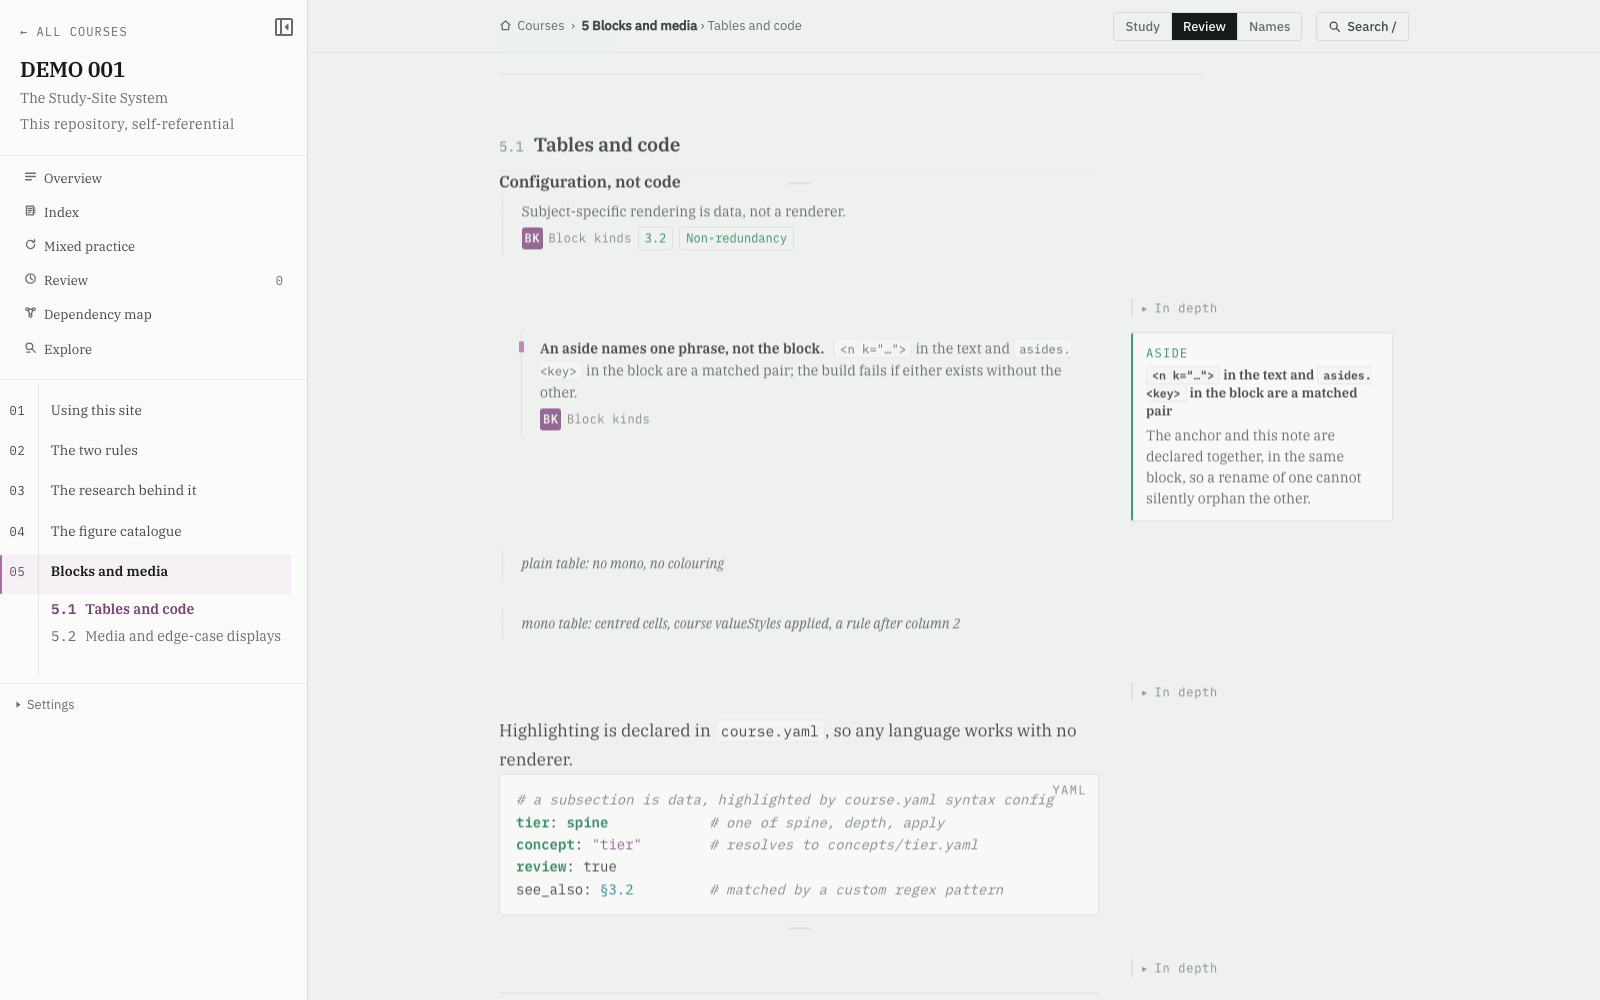
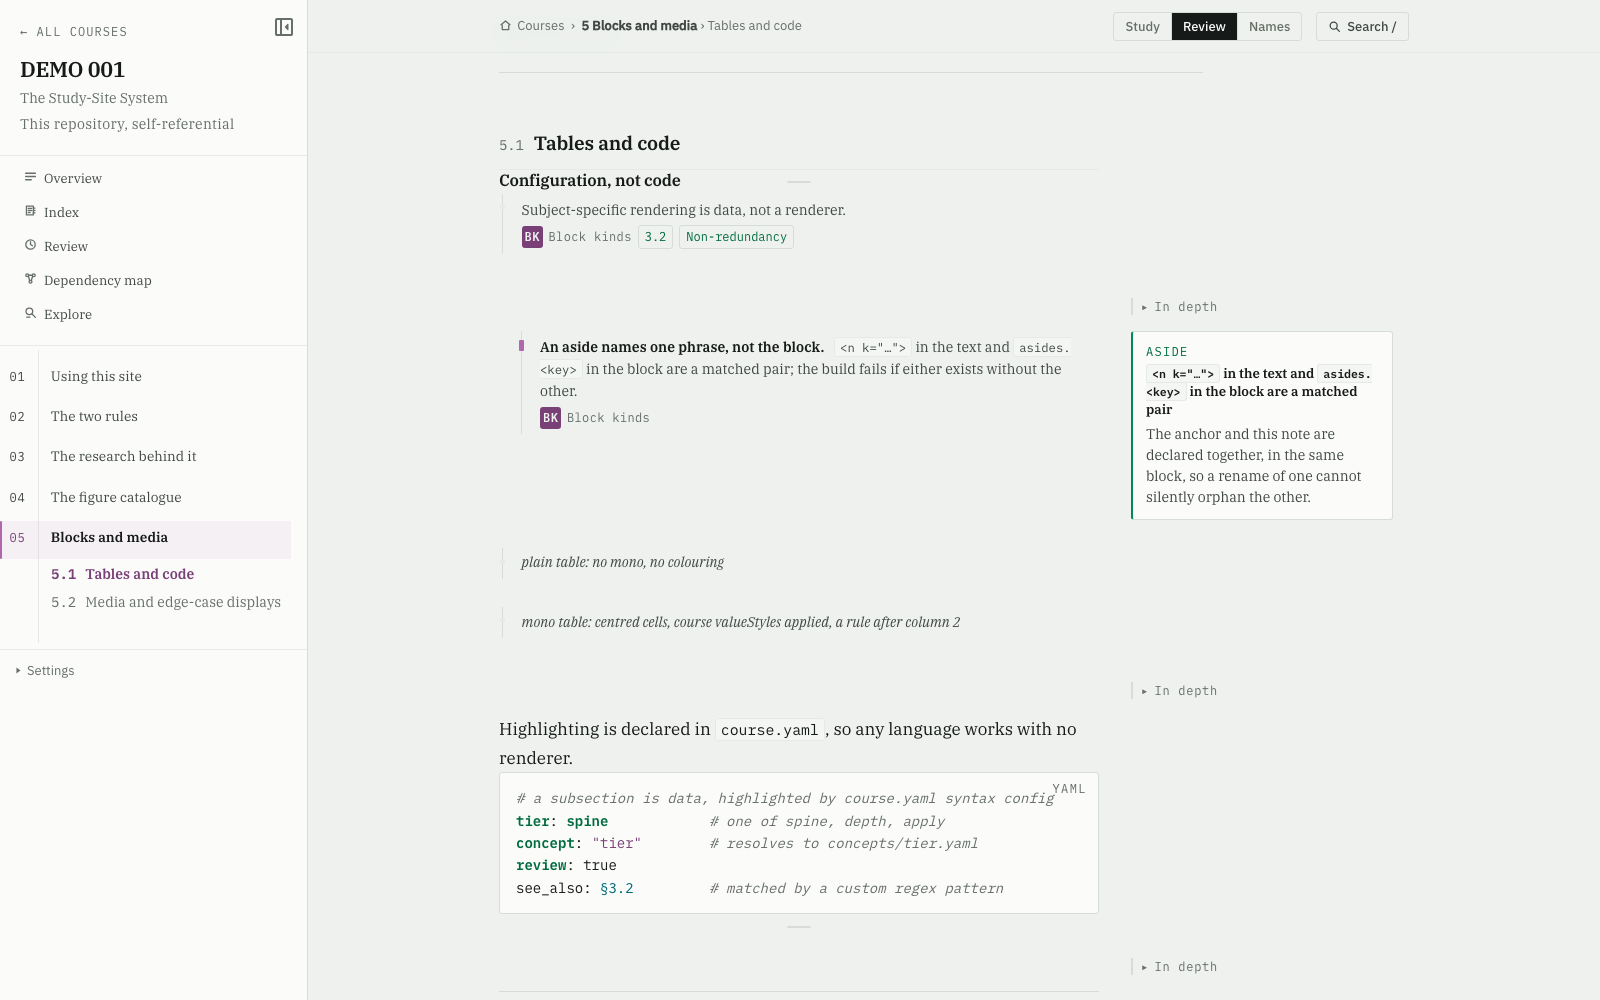
Mixed Questions and Review merge

diff --git a/src/app.jsx b/src/app.jsx
@@ -29,7 +29,6 @@ import { ConceptDetail } from "./components/Concepts.jsx";
 import { CatDetail } from "./components/Categories.jsx";
 import IndexPage from "./components/Index.jsx";
 import Explore from "./components/Explore.jsx";
-import Practice from "./components/Practice.jsx";
 import Primer from "./components/Primer.jsx";
 import DepMap from "./components/DepMap.jsx";
 import SearchOverlay from "./components/SearchOverlay.jsx";
@@ -428,8 +427,8 @@ export default function App() {
     ? "<b>Courses</b>"
     : !rest ? `<b>${course.code}</b>  ›  contents`
     : rest === "index" || rest === "concepts" || rest === "cat" ? "<b>Index</b>"
-    : rest === "review" ? "<b>Review</b>"
-    : rest === "practice" || rest.startsWith("practice/") ? "<b>Mixed practice</b>"
+    : rest === "review" || rest.startsWith("review/") ||
+      rest === "practice" || rest.startsWith("practice/") ? "<b>Review</b>"
     : rest === "explore" || rest.startsWith("explore/") ? "<b>Explore</b>"
     : rest.startsWith("cat/")
       ? `<b>Index</b>  ›  ${((course.cats || {})[rest.slice(4)] || {}).name || rest.slice(4)}`
@@ -453,7 +452,7 @@ export default function App() {
      is the library's frame, and the library is what a cross-course page
      belongs to. It used to draw a full-bleed frame of its own with a Close
      button; see components/Review.jsx. */
-  if (inReview) view = <Review />;
+  if (inReview) view = <Review mixed={rest === "mixed"} />;
   else if (!course) view = cid
     ? <Library courses={INDEX} order={ORDER} loading={!loadError} error={loadError}
                onChange={() => forceRender(n => n + 1)} />
@@ -464,9 +463,14 @@ export default function App() {
      still says, and a dead route is a worse answer than the page they meant. */
   else if (rest === "index" || rest === "concepts" || rest === "cat")
     view = <IndexPage ctx={ctx} />;
-  else if (rest === "practice") view = <Practice ctx={ctx} />;
-  else if (rest.startsWith("practice/"))
-    view = <Practice ctx={ctx} cat={rest.slice(9)} />;
+  /* The old practice routes still open the mixed option for existing links. */
+  else if (rest === "review" || rest === "review/mixed" ||
+           rest.startsWith("review/mixed/") || rest === "practice" ||
+           rest.startsWith("practice/"))
+    view = <Review only={cid} ctx={ctx}
+                   mixed={rest !== "review"}
+                   cat={rest.startsWith("review/mixed/") ? rest.slice(13)
+                      : rest.startsWith("practice/") ? rest.slice(9) : null} />;
   else if (rest.startsWith("cat/")) view = <CatDetail ctx={ctx} k={rest.slice(4)} />;
   else if (rest === "explore") view = <Explore ctx={ctx} seed={null} />;
   else if (rest === "explore/saved")
@@ -475,7 +479,6 @@ export default function App() {
     view = <Explore ctx={ctx} seed={{ tag: decodeURIComponent(rest.slice(12)) }} />;
   else if (rest.startsWith("explore/cat/"))
     view = <Explore ctx={ctx} seed={{ cat: decodeURIComponent(rest.slice(12)) }} />;
-  else if (rest === "review") view = <Review only={cid} />;
   else if (rest === "calibration") view = <Calibration ctx={ctx} onReset={onReset} />;
   else if (rest === "map" || rest.startsWith("map/"))
     view = <DepMap ctx={ctx} focus={rest.slice(4)}
@@ -539,7 +542,10 @@ export default function App() {
                   onMenu={() => setMenuOpen(v => !v)}
                   due={due} onReview={() => (location.hash = "#/review")} />
           <div class="wrap" id="content" ref={contentRef} onClick={onContentClick}>
-            <div class="viewport" key={hash}>{view}</div>
+            <div class="viewport" key={inReview || (course && (
+              rest === "review" || rest.startsWith("review/mixed") ||
+              rest === "practice" || rest.startsWith("practice/")))
+              ? `${cid}:review` : hash}>{view}</div>
           </div>
           {/* Outside `.wrap`, which carries the content zoom: the bar is chrome
               and magnifying the material should not magnify its controls. */}

diff --git a/src/components/Review.jsx b/src/components/Review.jsx
@@ -6,10 +6,45 @@ import { dueKeys } from "../lib/retention.js";
 import { buildQueue } from "../lib/queue.js";
 import { retryVariant } from "../lib/practice-pool.js";
 import QuestionCard from "./QuestionCard.jsx";
+import Practice from "./Practice.jsx";
 
 const SESSION = 20;
 
-export default function Review({ only = null }) {
+export default function Review({ only = null, ctx = null, mixed = false, cat = null }) {
+  const scope = only ? (INDEX[only] || {}).code || only
+    : mixed ? "choose a course" : "all courses";
+  const dueUrl = only ? `#/${only}/review` : "#/review";
+  const mixedUrl = only ? `#/${only}/review/mixed` : "#/review/mixed";
+  return <div class="review">
+    <header class="review-head">
+      <h1>Review</h1>
+      <span class="review-scope">{scope}</span>
+    </header>
+    <nav class="review-options" aria-label="Review options">
+      <a href={dueUrl} class={!mixed ? "cur" : ""}
+         aria-current={!mixed ? "page" : undefined}>Due now</a>
+      <a href={mixedUrl} class={mixed ? "cur" : ""}
+         aria-current={mixed ? "page" : undefined}>Mixed practice</a>
+    </nav>
+    <section hidden={mixed} aria-label="Due now">
+      <DueReview only={only} />
+    </section>
+    {ctx && <section hidden={!mixed} aria-label="Mixed practice">
+      <Practice key={cat || "all"} ctx={ctx} cat={cat} embedded />
+    </section>}
+    {!ctx && <section hidden={!mixed} aria-label="Choose a course for mixed practice"
+                     class="review-pick">
+      <p>{ORDER.length
+        ? "Choose a course to practise questions even when nothing is due."
+        : "Add a course to start mixed practice."}</p>
+      <div class="review-courses">{ORDER.map(cid => (
+        <a key={cid} href={`#/${cid}/review/mixed`}>{(INDEX[cid] || {}).code || cid} →</a>
+      ))}</div>
+    </section>}
+  </div>;
+}
+
+function DueReview({ only }) {
   const wanted = useMemo(() => ORDER.filter(cid => (!only || cid === only) &&
     dueKeys(cid).length > 0), [only]);
   const [books, setBooks] = useState(null);
@@ -32,15 +67,12 @@ export default function Review({ only = null }) {
 
   const again = () => setRun({ items: buildQueue(books || [], { limit: SESSION }), at: 0,
     retries: [], results: [] });
-  const scope = only ? (INDEX[only] || {}).code || only : "all courses";
-  if (!run) return <div class="review"><h1>Review</h1><p>Loading questions…</p></div>;
-  if (run.at >= run.items.length) return <div class="review">
-    <div class="review-bar"><span class="review-t">Review</span><span class="review-scope">{scope}</span></div>
-    <h1>{run.items.length ? "Session complete" : "Nothing is due"}</h1>
+  if (!run) return <p>Loading questions…</p>;
+  if (run.at >= run.items.length) return <div class="review-done">
+    <h2>{run.items.length ? "Session complete" : "Nothing is due"}</h2>
     <p>{run.items.length ? `${run.results.filter(r => r.correct).length} right; ${run.results.filter(r => !r.correct).length} to revisit.` :
       "You are caught up."}</p>
     {run.items.length > 0 && <button class="dbtn" onClick={again}>Another set</button>}
-    {only && <a class="dbtn" href={`#/${only}/practice`}>Mixed Practice →</a>}
   </div>;
 
   const row = run.items[run.at];
@@ -60,11 +92,11 @@ export default function Review({ only = null }) {
     return next;
   });
 
-  return <div class="review">
-    <div class="review-bar"><span class="review-t">Review</span><span class="review-scope">{scope}</span>
+  return <>
+    <div class="review-bar"><span class="review-t">Scheduled questions</span>
       <span class="review-n">{run.at + 1} of {run.items.length}</span></div>
     <QuestionCard key={`${run.at}:${row.item.id}`} item={row.item}
       ctx={{ ...book, state: book.state }} reason={row.reason}
       onResult={result} onContinue={() => setRun(prev => ({ ...prev, at: prev.at + 1 }))} />
-  </div>;
+  </>;
 }

diff --git a/src/components/Practice.jsx b/src/components/Practice.jsx
@@ -4,7 +4,7 @@ import { get as retentionGet } from "../lib/retention.js";
 import QuestionCard from "./QuestionCard.jsx";
 import { strip } from "../lib/util.js";
 
-export default function Practice({ ctx, cat }) {
+export default function Practice({ ctx, cat, embedded = false }) {
   const { cid, idx, state } = ctx;
   const subs = Object.entries(idx.SUBS);
   const [from, setFrom] = useState(subs[0]?.[0] || "");
@@ -32,25 +32,30 @@ export default function Practice({ ctx, cat }) {
     });
   };
 
-  return <div class="chub">
-    <h1>Mixed Practice</h1>
-    <div class="pgo"><button class="dbtn primary" id="p-start" onClick={start}
-      disabled={!pool.length}>Start {Math.min(Number(count), pool.length)} questions →</button></div>
-    <details class="pcfg">
-      <summary><i class="caret" aria-hidden="true" />Choose subsections and set length</summary>
-      <div class="pcfg-row">
-        <label>From <select id="p-from" value={from} onChange={e => setFrom(e.currentTarget.value)}>
-          {subs.map(([id, x]) => <option value={id} key={id}>{x.num} {strip(x.sub.title)}</option>)}
-        </select></label>
-        <label>Through <select id="p-to" value={to} onChange={e => setTo(e.currentTarget.value)}>
-          {subs.map(([id, x]) => <option value={id} key={id}>{x.num} {strip(x.sub.title)}</option>)}
-        </select></label>
-        <label>Questions <select id="p-count" value={count} onChange={e => setCount(e.currentTarget.value)}>
-          {[5, 10, 20, 40].map(n => <option value={n} key={n}>{n}</option>)}
-        </select></label>
-        <span class="pinfo">{pool.length} available</span>
-      </div>
-    </details>
+  return <div class={embedded ? "review-practice" : "chub"}>
+    {!embedded && <h1>Mixed Practice</h1>}
+    {!run && <>
+      <p class="practice-intro">{cat
+        ? `Practice ${idx.CAT.cats[cat]?.name || cat} across the selected subsections.`
+        : "Practice questions from this course, even when nothing is due."}</p>
+      <div class="pgo"><button class="dbtn primary" id="p-start" onClick={start}
+        disabled={!pool.length}>Start {Math.min(Number(count), pool.length)} questions →</button></div>
+      <details class="pcfg">
+        <summary><i class="caret" aria-hidden="true" />Choose subsections and set length</summary>
+        <div class="pcfg-row">
+          <label>From <select id="p-from" value={from} onChange={e => setFrom(e.currentTarget.value)}>
+            {subs.map(([id, x]) => <option value={id} key={id}>{x.num} {strip(x.sub.title)}</option>)}
+          </select></label>
+          <label>Through <select id="p-to" value={to} onChange={e => setTo(e.currentTarget.value)}>
+            {subs.map(([id, x]) => <option value={id} key={id}>{x.num} {strip(x.sub.title)}</option>)}
+          </select></label>
+          <label>Questions <select id="p-count" value={count} onChange={e => setCount(e.currentTarget.value)}>
+            {[5, 10, 20, 40].map(n => <option value={n} key={n}>{n}</option>)}
+          </select></label>
+          <span class="pinfo">{pool.length} available</span>
+        </div>
+      </details>
+    </>}
     {run && <div id="p-run">
       {run.at < run.items.length ? <>
         <div class="pbar"><i style={`width:${Math.round(run.at / run.items.length * 100)}%`} /></div>

diff --git a/src/components/Sidebar.jsx b/src/components/Sidebar.jsx
@@ -1,5 +1,5 @@
 import { useEffect, useRef } from "preact/hooks";
-import { IconStart, IconIndex, IconPractice, IconMap, IconTuck, IconExplore,
+import { IconStart, IconIndex, IconMap, IconTuck, IconExplore,
          IconReview } from "./Icon.jsx";
 import CourseActions from "./CourseActions.jsx";
 import LaneSelect from "./LaneSelect.jsx";
@@ -68,17 +68,11 @@ export default function Sidebar({ course, cid, rest, here, open, onNavigate, onT
   const top = [
     ["", "Overview", IconStart, !rest],
     ["index", "Index", IconIndex, ixHere],
-    ["practice", "Mixed practice", IconPractice, rest === "practice" || rest.startsWith("practice/")],
-    /* The queue was a chip in the toolbar. It is a place you go, which is what
-       every other row here is, and it sits beside mixed practice because the
-       two are the same act at two schedules. It carries a count, so the count
-       goes where a count goes in a table of contents: the far edge.
-
-       Scoped to this course, and so is the count. A rail belongs to one course
-       and a row in it that covered every other course was confusing; the
-       cross-course queue is on the dashboard. */
-    ...(due != null ? [["review", "Review", IconReview,
-                        rest === "review", due]] : []),
+    /* One destination for scheduled questions and mixed practice. The count
+       belongs only to scheduled questions from this course. */
+    ["review", "Review", IconReview,
+      rest === "review" || rest.startsWith("review/") ||
+      rest === "practice" || rest.startsWith("practice/"), due > 0 ? due : null],
     ["map", "Dependency map", IconMap, rest === "map" || rest.startsWith("map/")],
     ["explore", "Explore", IconExplore, rest === "explore" || rest.startsWith("explore/")]
   ];
@@ -101,12 +95,12 @@ export default function Sidebar({ course, cid, rest, here, open, onNavigate, onT
 
       <div class="navtop">
         {top.map(([route, label, Ico, cur, n]) => (
-          <a key={label} href={H(route)} class={(cur ? "cur" : "") + (n != null ? " rv-row" : "")}
-             id={n != null ? "rv-open" : undefined}
-             title={n != null ? "Review what is due  (r)" : undefined}
+          <a key={label} href={H(route)} class={(cur ? "cur" : "") + (route === "review" ? " rv-row" : "")}
+             id={route === "review" ? "rv-open" : undefined}
+             title={route === "review" ? "Review this course  (r)" : undefined}
              onClick={onNavigate}>
             <span class="k"><Ico /></span>{label}
-            {n != null && <b class="rv-n">{n}</b>}
+            {n > 0 && <b class="rv-n">{n}</b>}
           </a>
         ))}
       </div>

diff --git a/src/css/66-review.css b/src/css/66-review.css
@@ -12,8 +12,28 @@
  * `.wrap` like the index and the dependency map, which means the toolbar above
  * it pays for the status bar (10-shell.css) and the way out is the rail, the
  * breadcrumb and the back button — the same three every other page offers. */
-.review{padding:var(--view-top) 0 0;max-width:34rem}
+.review{padding:var(--view-top) 0 0;max-width:var(--measure)}
 .review>*:last-child{margin-bottom:0}
+.review-head{display:flex;align-items:baseline;gap:12px;flex-wrap:wrap;margin-bottom:20px}
+.review-head h1{font-family:var(--display);font-size:2.15rem;font-weight:600;
+  letter-spacing:-.02em;margin:0}
+.review-head .review-scope{border:0;padding:0}
+.review-options{display:flex;gap:24px;border-bottom:1px solid var(--rule);margin-bottom:22px}
+.review-options a{display:inline-block;padding:0 1px 11px;margin-bottom:-1px;
+  border-bottom:2px solid transparent;color:var(--ink-3);font-family:var(--ui);
+  font-size:var(--fs-small);text-decoration:none}
+.review-options a:hover{color:var(--ink)}
+.review-options a.cur{color:var(--ink);border-bottom-color:var(--hi);font-weight:600}
+.review-options a:focus-visible{outline:2px solid var(--focus);outline-offset:3px}
+.review-practice .practice-intro{color:var(--ink-2);margin:0 0 16px}
+.review-practice .pgo{margin-top:0}
+.review-done h2{font-family:var(--display);font-size:1.4rem;margin:0 0 .5rem}
+.review-pick p{color:var(--ink-2);margin:0 0 16px}
+.review-courses{display:flex;flex-wrap:wrap;gap:8px}
+.review-courses a{padding:9px 12px;border:1px solid var(--rule);border-radius:3px;
+  color:var(--ink);text-decoration:none;font-family:var(--ui);font-size:var(--fs-small)}
+.review-courses a:hover{border-color:var(--hi);color:var(--hi-ink)}
+.review-courses a:focus-visible{outline:2px solid var(--focus);outline-offset:2px}
 
 .review-bar{
   display:flex;align-items:center;gap:.7rem;flex-wrap:wrap;
@@ -34,7 +54,6 @@
 .review-dots i{width:7px;height:7px;border-radius:50%;border:1.5px solid var(--rule)}
 .review-dots i.on{background:var(--hi);border-color:var(--hi)}
 .review-n{font-family:var(--mono);font-size:var(--fs-meta);color:var(--ink-3)}
-.review h1{font-size:1.4rem;margin:0 0 .5rem}
 .review-nav{display:flex;gap:8px;margin-top:1.2rem;flex-wrap:wrap}
 
 /* The dots are the first thing to go when the bar runs out of room: the count

diff --git a/src/components/Icon.jsx b/src/components/Icon.jsx
@@ -9,10 +9,7 @@ export function IconPractice() { return <svg {...P}><path d="M13 8a5 5 0 1 1-1.6
 export function IconMap()      { return <svg {...P}><circle cx="4" cy="4" r="1.8"/><circle cx="12" cy="4" r="1.8"/><circle cx="8" cy="12" r="1.8"/><path d="M5.4 5.2 7 10.4M10.6 5.2 9 10.4M5.8 4h4.4"/></svg>; }
 export function IconHome()     { return <svg {...P}><path d="M2.5 7 8 2.5 13.5 7"/><path d="M4 7.5V13h8V7.5"/></svg>; }
 export function IconSearch()   { return <svg {...P}><circle cx="7" cy="7" r="4.3"/><path d="M10.2 10.2 14 14"/></svg>; }
-/* Review: a clock, not another circular arrow. Mixed practice already wears
-   the arrow, and the two differ in exactly one thing — the queue is scheduled
-   and practice is not — so the icon that separates them has to be the one that
-   says "when". */
+/* Review leads with its scheduled queue; mixed practice lives inside it. */
 export function IconReview()   { return <svg {...P}><circle cx="8" cy="8" r="5.8"/><path d="M8 4.6V8l2.4 1.6"/></svg>; }
 /* The index: a page of entries with the thumb tab a back-of-book index is cut
    with. Replaces the separate concept and category marks, which were a diamond

diff --git a/src/lib/next.js b/src/lib/next.js
@@ -192,7 +192,7 @@ export function nextUp({ C, cid, idx, state, drills, place = null, now = Date.no
        and it is a good one, so it is not an empty page — it is the only branch
        where practice is the right recommendation rather than a distraction. */
     out.push({
-      kind: "practice", href: H("practice"), count: null,
+      kind: "practice", href: H("review/mixed"), count: null,
       title: "Nothing is due, practise anyway",
       why: "You are ahead of the schedule. Mixed practice is what keeps you there."
     });

diff --git a/src/components/Categories.jsx b/src/components/Categories.jsx
@@ -105,7 +105,7 @@ export function CatDetail({ ctx, k }) {
         </span>
         <span class="catcount">{v.count} {v.count === 1 ? "item" : "items"}</span>
         {v.drills.length > 0 && (
-          <a class="dbtn ghost catpractice" href={`#/${cid}/practice/${k}`}>
+          <a class="dbtn ghost catpractice" href={`#/${cid}/review/mixed/${k}`}>
             Practise this category{due ? ` (${due} due)` : ""} →
           </a>
         )}

diff --git a/src/components/Desk.jsx b/src/components/Desk.jsx
@@ -117,7 +117,7 @@ export default function Desk({ ctx }) {
       {/* Everything that is not the reading path. Quiet, and last, because a
           reader who wants the map goes looking for the map. */}
       <div class="tools">
-        <a href={H("practice")}>Mixed practice</a>
+        <a href={H("review")}>Review</a>
         <a href={H("index")}>Index</a>
         <a href={H("map")}>Dependency map</a>
         <a href={H("calibration")}>

diff --git a/README.md b/README.md
@@ -14,8 +14,7 @@ A course is the specific thing you want to learn/study (like a class, or certain
 2. Click `Add Course` to browse the prebuilt library (which starts with DEMO), or import a course folder, .zip, or .course.json file from your device.
 3. Click on the course to enter. There'll be a sidebar with all the course sections, and the different features:
     - **Index** provides and overview of the course concepts and categories.
-    - **Mixed Practice** is for practice questions.
-    - **Review** pulls questions from concepts you've attempted, including practice variants.
+    - **Review** opens questions due from concepts you've attempted. Choose *Mixed practice* there to practise a range of subsections, including questions that are not due.
     - **Dependency Map** demonstrates how sections connect to each other.
     - **Explore**
         - The Discover section allow you to quickly find needed information.
